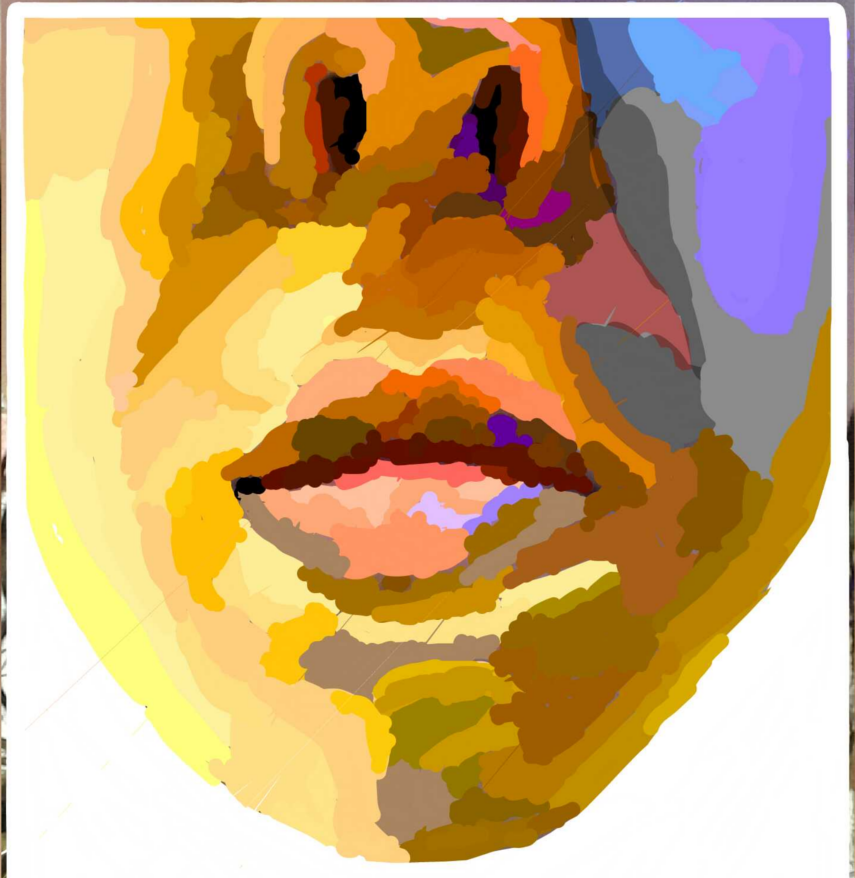
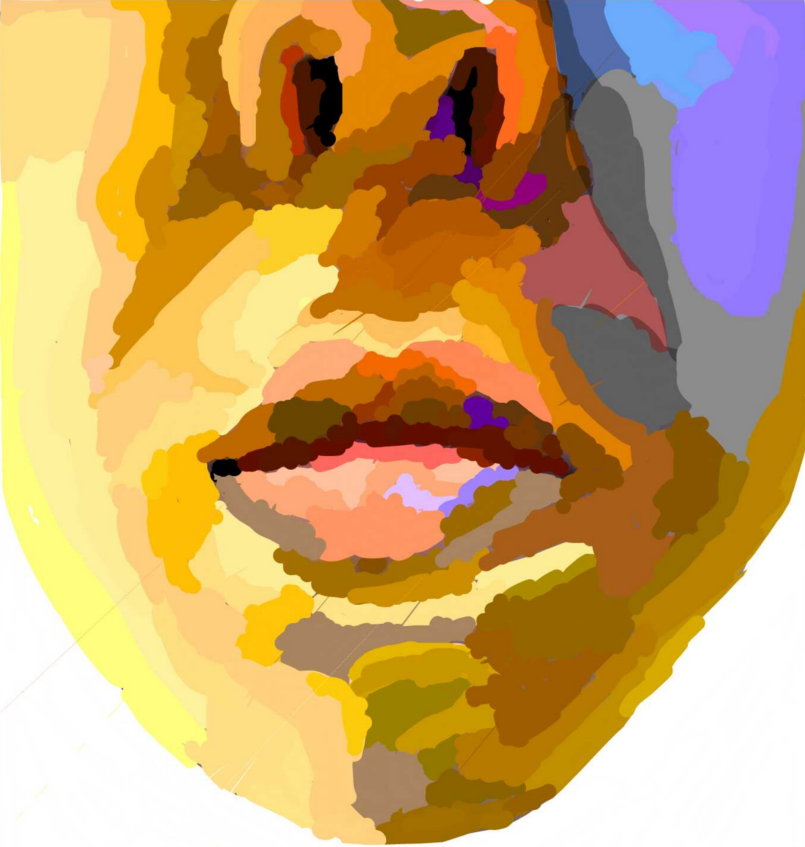
Generates points of color based on the image.

diff --git a/js/main.js b/js/main.js
@@ -8,52 +8,106 @@
 
 var anthony = {};
 anthony.ai = (function() {
-	'use strict';
+  'use strict';
 
   // config
-	var DIMS = [200, 200];
+  var DIMS = [400, 400];
+  var IMAGE_WIDTH = 400;
+  var NUM_INIT_POINTS = 1000;
+  var MAX_POINT_RAD = 6;
+  var FPS = 30;
 
   // work variables
-	var canvas;
-	var ctx;
-	var facePixels;
+  var canvas;
+  var ctx;
+  var facePixels;
+  var facePoints;
 
   // work functions
   function initAnthonyAI() {
-		// get the pixels of the face
-		Crush.getPixelsFromImage(
-			'assets/images/anthony.png',
-			400,
-			function(pixels) {
-				// set the pixels
-				facePixels = pixels;
+    // get the pixels of the face
+    Crush.getPixelsFromImage(
+      'assets/images/anthony.png',
+      IMAGE_WIDTH,
+      function(pixels) {
+        // set the pixels
+        facePixels = pixels;
+        facePoints = getNPointsFromPixels(
+          NUM_INIT_POINTS, facePixels.data
+        );
 
-				// initialize canvas stuff
-				canvas = $s('#canvas');
-				canvas.width = DIMS[0];
-				canvas.height = DIMS[1];
-				ctx = canvas.getContext('2d');
+        // initialize canvas stuff
+        canvas = $s('#canvas');
+        canvas.width = DIMS[0];
+        canvas.height = DIMS[1];
+        ctx = canvas.getContext('2d');
 
-				Crush.registerDynamicCanvas(
-					canvas,
-					render
-				);
-			}
-		);
+        Crush.registerDynamicCanvas(
+          canvas,
+          render
+        );
+
+        render(true);
+      }
+    );
   }
 
-	function render() {
-		// modify the pixels
-		var pixels = facePixels.data;
-		for (var i = 0; i < pixels.length; i++) {
-			if (Math.random() < 0.1) pixels[i] = 0;
-		}
-		
-		// put it on
-    ctx.putImageData(facePixels, 0, 0);
-	}
+  function render(repeat) {
+    // modify the pixels
+    ctx.translate(4*Math.random()-2, 4*Math.random()-2);
+    for (var i = 0; i < facePoints.length; i++) {
+      // draw the point
+      var point = facePoints[i];
+      var pos = [
+        point[0][0] + canvas.width/2 - IMAGE_WIDTH/2,
+        point[0][1]
+      ];
+      var size = point[1];
+      var color = point[2];
+      Crush.drawPoint(ctx, pos, size, Crush.getColorStr(color));
+    }
+
+    if (repeat === true) {
+      setTimeout(function() {
+        render(true); 
+      }, 1000/FPS);
+    }
+  }
+
+  function getNPointsFromPixels(n, pixels) {
+     var points = [];
+      for (var i = 0; i < n; i++) {
+        points.push(getPointFromPixels(pixels));
+      }
+      return points;
+  }
+
+  function getPointFromPixels(pixels) {
+    var idx = Math.floor(Math.random()*(pixels.length/4));
+    var color = [
+      pixels[4*idx], pixels[4*idx+1], pixels[4*idx+2], pixels[4*idx+3]
+    ];
+    // skip white
+    if (getMagnitude(color) > getMagnitude([250,250,250,255])) {
+      return getPointFromPixels(pixels);
+    } else {
+      var x = idx % IMAGE_WIDTH;
+      var y = Math.floor(idx/IMAGE_WIDTH);
+      return [
+        [x, y],
+        Math.random() * MAX_POINT_RAD,
+        color
+      ];
+    }
+  }
 
   // helper functions
+  function getMagnitude(v) {
+    return v.reduce(function(a, b) {
+      return a + b*b;
+    }, 0);
+  }
+
   function $s(id) { //for convenience
     if (id.charAt(0) !== '#') return false;
     return document.getElementById(id.substring(1));

diff --git a/js/canvashelpers.js b/js/canvashelpers.js
@@ -16,10 +16,10 @@ var Crush = (function() {
       ctx.fillStyle = color || 'white';
       ctx.fillRect(0, 0, ctx.canvas.width, ctx.canvas.height);
     },
-    getColorStr: function(cols, opacity) {
+    getColorStr: function(cols) {
       var mid = '('+cols[0]+','+cols[1]+','+cols[2];
-      if (arguments.length === 2) {
-        return 'rgba'+mid+','+opacity+')';
+      if (cols.length === 4) {
+        return 'rgba'+mid+','+cols[3]+')';
       } else {
         return 'rgb'+mid+')';
       }
